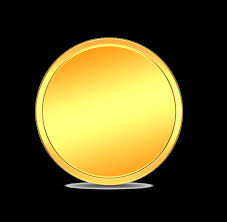
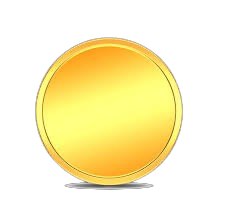
update

diff --git a/lab9/code/racer2.py b/lab9/code/racer2.py
@@ -24,11 +24,11 @@ font_small = pygame.font.SysFont("Verdana", 20)
 game_over = font.render("Game Over", True, black)
 
 # Загрузка звуков
-crash_sound = pygame.mixer.Sound("C:/Users/Asus/Documents/Little/PP2/lab8/sounds/crash.wav")
-coin_sound = pygame.mixer.Sound("C:/Users/Asus/Documents/Little/PP2/lab8/sounds/getcoin.mp3")
+crash_sound = pygame.mixer.Sound("C:/Users/Asus/Documents/Little/PP2/lab9/sounds/crash.wav")
+coin_sound = pygame.mixer.Sound("C:/Users/Asus/Documents/Little/PP2/lab9/sounds/getcoin.mp3")
 
 # Загрузка фона
-background = pygame.image.load("C:/Users/Asus/Documents/Little/PP2/lab8/image/AnimatedStreet.png")
+background = pygame.image.load("C:/Users/Asus/Documents/Little/PP2/lab9/image/AnimatedStreet.png")
 
 # Настройка экрана
 screen = pygame.display.set_mode((screen_width, screen_height))
@@ -39,7 +39,7 @@ clock = pygame.time.Clock()
 class Enemy(pygame.sprite.Sprite):
     def __init__(self):
         super().__init__()
-        self.image = pygame.image.load("C:/Users/Asus/Documents/Little/PP2/lab8/image/Enemy.png")
+        self.image = pygame.image.load("C:/Users/Asus/Documents/Little/PP2/lab9/image/Enemy.png")
         self.rect = self.image.get_rect()
         self.rect.center = (random.randint(40, screen_width - 40), -20)
     
@@ -54,7 +54,7 @@ class Enemy(pygame.sprite.Sprite):
 class Player(pygame.sprite.Sprite):
     def __init__(self):
         super().__init__()
-        self.image = pygame.image.load("C:/Users/Asus/Documents/Little/PP2/lab8/image/Player.png")
+        self.image = pygame.image.load("C:/Users/Asus/Documents/Little/PP2/lab9/image/Player.png")
         self.rect = self.image.get_rect()
         self.rect.center = (160, 520)
     
@@ -67,42 +67,38 @@ class Player(pygame.sprite.Sprite):
 
 # Класс монеты
 class Coin(pygame.sprite.Sprite):
-    def __init__(self, enemy):
+    def __init__(self):
         super().__init__()
         # Вес монет и соответствующие изображения
-        self.weights = {1: "C:/Users/Asus/Documents/Little/PP2/lab8/image/coin1.png", 
-                        2: "C:/Users/Asus/Documents/Little/PP2/lab8/image/coin2.png", 
-                        5: "C:/Users/Asus/Documents/Little/PP2/lab8/image/coin5.png"}
+        self.weights = {1: "C:/Users/Asus/Documents/Little/PP2/lab9/image/coin1.png", 
+                        2: "C:/Users/Asus/Documents/Little/PP2/lab9/image/coin2.png", 
+                        5: "C:/Users/Asus/Documents/Little/PP2/lab9/image/coin.png"}
         self.value, image_path = self.random_coin()
         self.image = pygame.image.load(image_path)
+        self.image = pygame.transform.scale(self.image, (80, 80))  # Установка одинакового размера монет
         self.rect = self.image.get_rect()
-        self.spawn(enemy)
+        self.spawn()
     
     def random_coin(self):
         # Выбор случайной монеты (1, 2 или 5 очков)
         value = random.choices([1, 2, 5], weights=[70, 20, 10])[0]
         return value, self.weights[value]
     
-    def spawn(self, enemy):
-        # Спавн монеты в случайном месте, избегая области врага
-        coord_range = list(chain(range(22, enemy.rect.center[0] - 46), range(enemy.rect.center[0] + 46, screen_width - 22)))
-        if coord_range:
-            self.rect.center = (random.choice(coord_range), 0)
-        else:
-            self.rect.center = (random.randint(22, screen_width - 22), 0)
+    def spawn(self):
+        # Спавн монеты в случайном месте
+        self.rect.center = (random.randint(22, screen_width - 22), random.randint(-100, -20))
     
     def move(self):
         self.rect.move_ip(0, speed)
         if self.rect.top > screen_height:
-            self.rect.top = 0
-            self.spawn(E1)
+            self.spawn()
 
 # Настройка игры
 P1 = Player()
 E1 = Enemy()
 coins = pygame.sprite.Group()
 for _ in range(3):
-    coins.add(Coin(E1))
+    coins.add(Coin())
 
 all_sprites = pygame.sprite.Group(P1, E1, *coins)
 
@@ -121,10 +117,10 @@ while running:
         entity.move()
     
     for coin in coins:
-        if P1.rect.colliderect(coin.rect):
+        if pygame.sprite.collide_circle(P1, coin):
             coin_score += coin.value  # Увеличение счетчика монет на значение монеты
             coin_sound.play()
-            coin.spawn(E1)
+            coin.spawn()
             if coin_score >= N:
                 speed += 1  # Увеличение скорости врагов при наборе N монет
                 coin_score = 0
